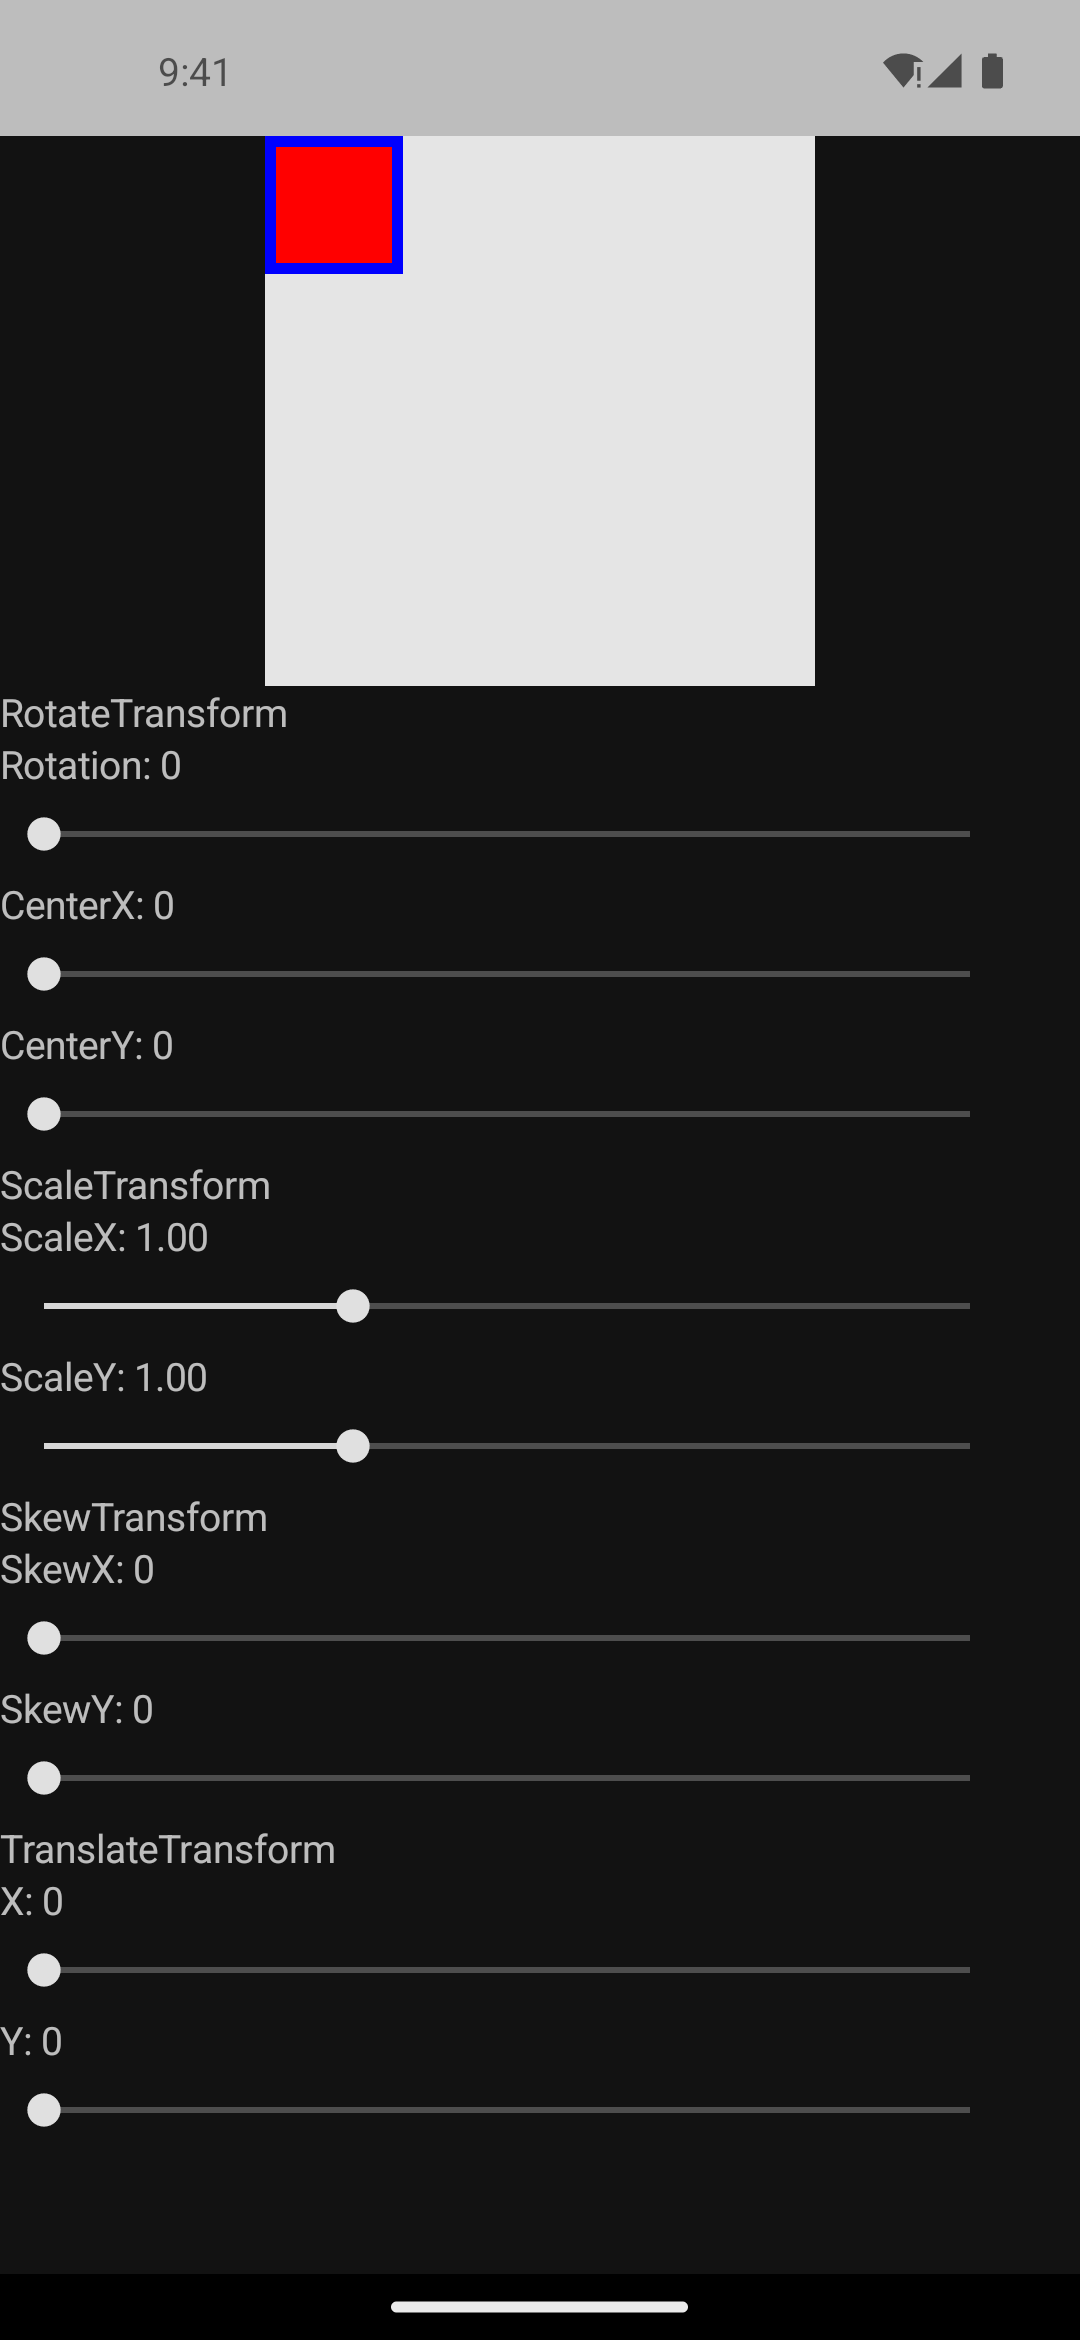
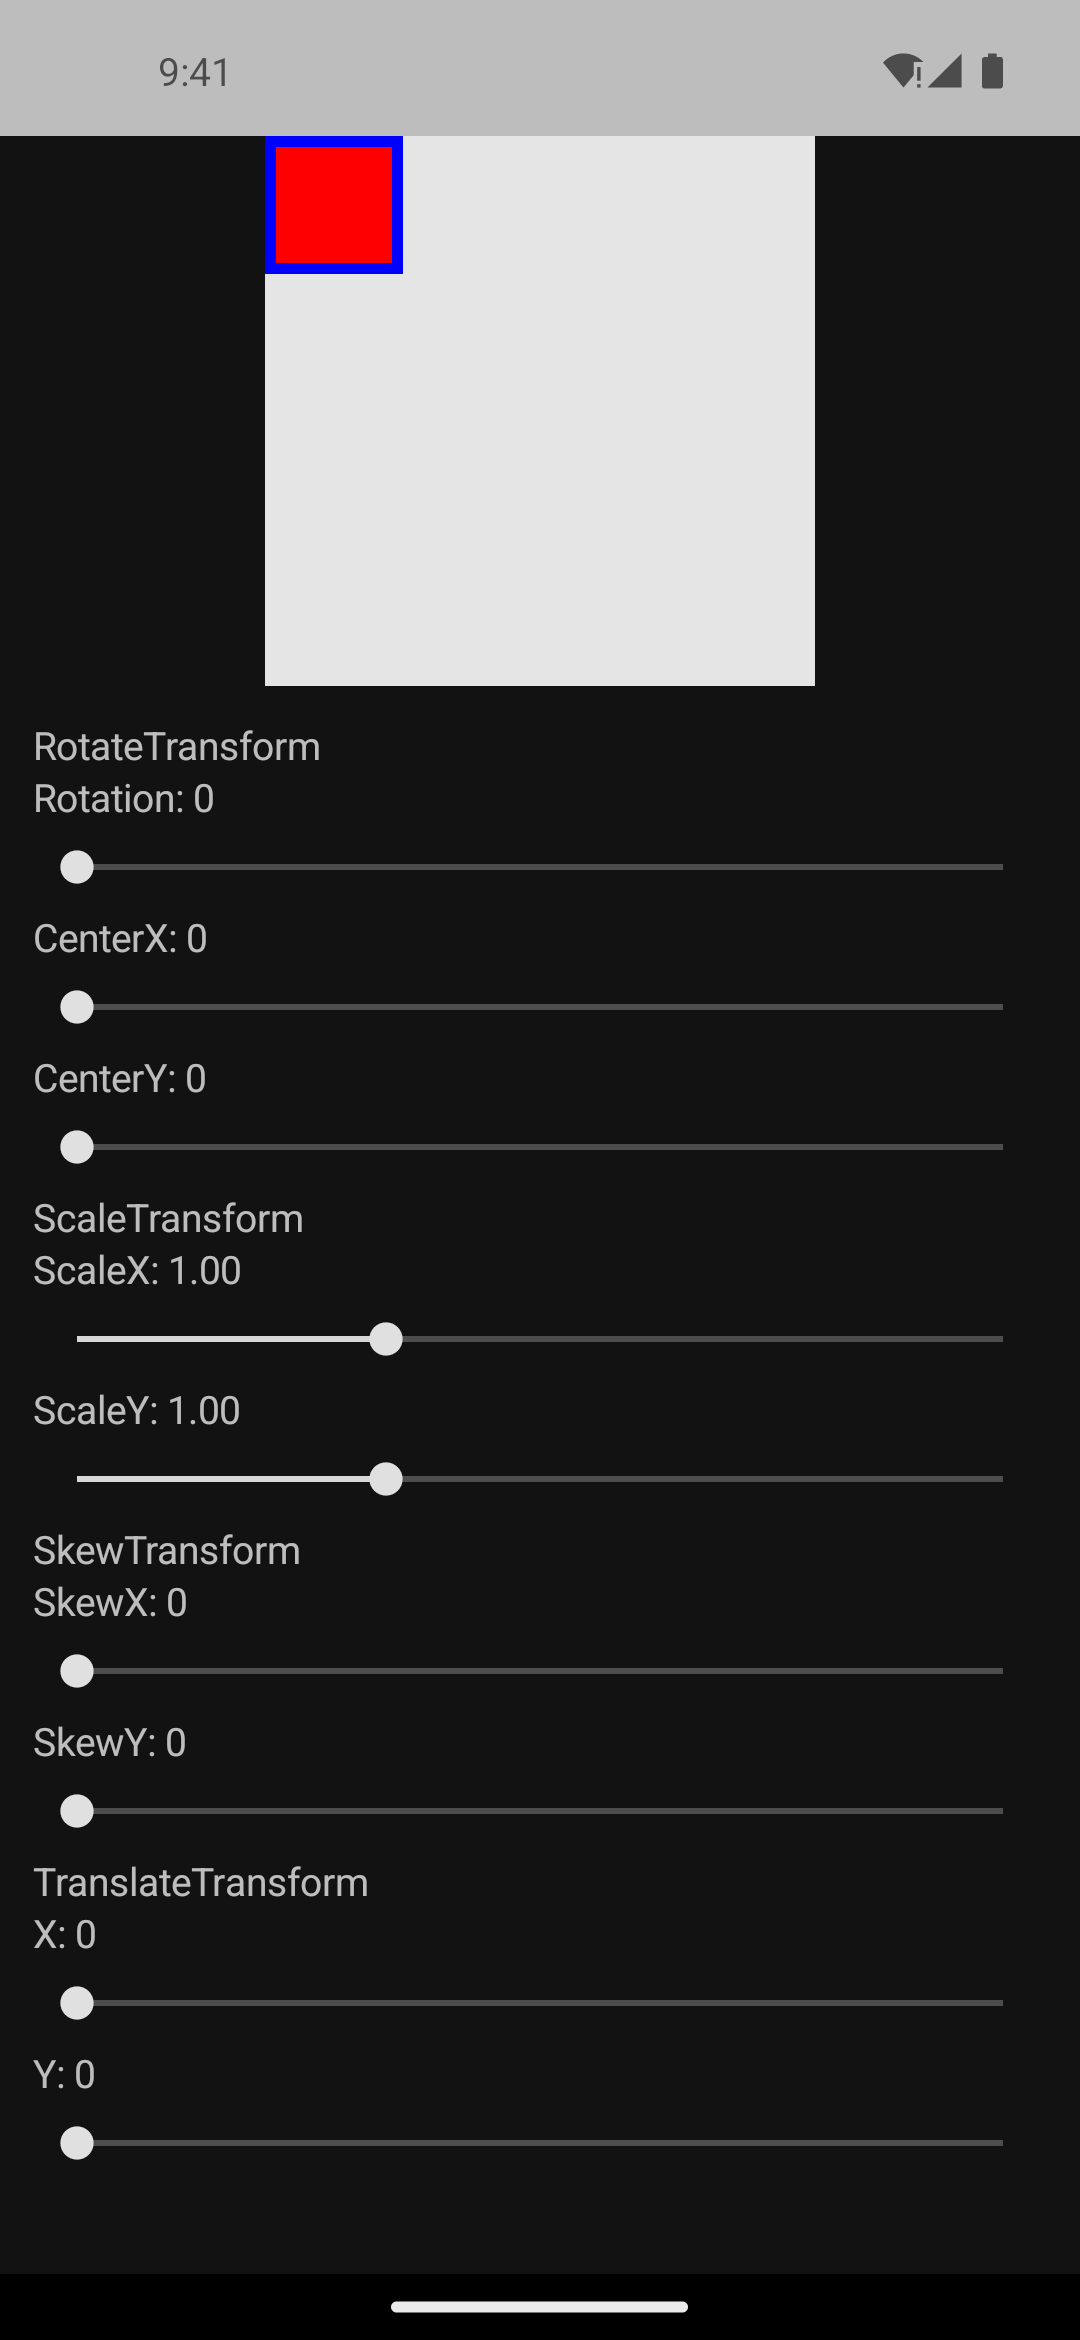
board: transform_playground/android/pixel_xaml red -> green — confirms 37731724c9
Recapture + pixel_score.py --verify confirms the FrameLayout margin fix works on real pixels:
the xaml-loaded column's ScrollView Padding now renders inset exactly like the maui and cpp
columns, both themes.

Changed region(s): [[0.0, 0.2808, 0.9167, 0.9359], [0.3056, 0.5303, 0.3972, 0.6551], [0.0, 0.5615, 0.0306, 0.5927]]

diff --git a/port/cpp/docs/comparison/README.md b/port/cpp/docs/comparison/README.md
@@ -9,9 +9,9 @@ Per-page MAUI-vs-C++ visual parity for the **172 gallery pages**, on **iOS**, **
 <tr><th>🟢</th><th>🟡</th><th>🔴</th><th>⬛</th><th>⏳</th><th>🟢</th><th>🟡</th><th>🔴</th><th>⬛</th><th>⏳</th></tr>
 <tr><td>iOS</td><td>166</td><td>5</td><td>1</td><td>0</td><td>0</td><td>167</td><td>4</td><td>1</td><td>0</td><td>0</td></tr>
 <tr><td>macOS</td><td>168</td><td>3</td><td>1</td><td>0</td><td>0</td><td>169</td><td>2</td><td>1</td><td>0</td><td>0</td></tr>
-<tr><td>Android</td><td>158</td><td>13</td><td>1</td><td>0</td><td>0</td><td>158</td><td>12</td><td>2</td><td>0</td><td>0</td></tr>
+<tr><td>Android</td><td>158</td><td>13</td><td>1</td><td>0</td><td>0</td><td>159</td><td>12</td><td>1</td><td>0</td><td>0</td></tr>
 <tr><td>Windows</td><td>171</td><td>1</td><td>0</td><td>0</td><td>0</td><td>171</td><td>1</td><td>0</td><td>0</td><td>0</td></tr>
-<tr><td><strong>Total</strong></td><td><strong>663</strong></td><td><strong>22</strong></td><td><strong>3</strong></td><td><strong>0</strong></td><td><strong>0</strong></td><td><strong>665</strong></td><td><strong>19</strong></td><td><strong>4</strong></td><td><strong>0</strong></td><td><strong>0</strong></td></tr>
+<tr><td><strong>Total</strong></td><td><strong>663</strong></td><td><strong>22</strong></td><td><strong>3</strong></td><td><strong>0</strong></td><td><strong>0</strong></td><td><strong>666</strong></td><td><strong>19</strong></td><td><strong>3</strong></td><td><strong>0</strong></td><td><strong>0</strong></td></tr>
 </table>
 
 _macOS row = **Mac Catalyst**. The AppKit columns (`appkit_cpp`, `appkit_xaml`) are captured and shown per page but are not pixel-scored — AppKit is a different UI framework (NSViews vs UIKit) and cannot pixel-match, so its requirement is element completeness plus cpp-vs-xaml agreement, not a parity score._
@@ -5543,9 +5543,9 @@ Real .NET MAUI vs the C++ port vs the compile-time-XAML gallery, captured on the
 
 | Classification | Pixel-Perfect Score — C++ (C1/C3) | Pixel-Perfect Score — C++ &amp; XAML (C2/C4) |
 | --- | --- | --- |
-| 🟢 Match | 158 | 158 |
+| 🟢 Match | 158 | 159 |
 | 🟡 Minor | 13 | 12 |
-| 🔴 Major | 1 | 2 |
+| 🔴 Major | 1 | 1 |
 | ⬛ Blank | 0 | 0 |
 | ⏳ Unreviewed | 0 | 0 |
 
@@ -8142,7 +8142,7 @@ Light: SSIM 0.9995, 0.00% pixels differ · Dark: SSIM 0.9979, 0.12% pixels diffe
 
 Light: SSIM 0.9995, 0.00% pixels differ · Dark: SSIM 0.9979, 0.12% pixels differ
 
-### 164. Transform Playground — 🟢/🔴
+### 164. Transform Playground — 🟢/🟢
 <sub>transform_playground</sub>
 
 <table><tr><th></th><th>MAUI</th><th>C++</th><th>C++ &amp; XAML</th></tr><tr><th>Light</th><td><img width="300px" src="captures/android/maui/transform_playground_light.png" /></td><td><img width="300px" src="captures/android/cpp/transform_playground_light.png" /></td><td><img width="300px" src="captures/android/xaml/transform_playground_light.png" /></td></tr><tr><th>Dark</th><td><img width="300px" src="captures/android/maui/transform_playground_dark.png" /></td><td><img width="300px" src="captures/android/cpp/transform_playground_dark.png" /></td><td><img width="300px" src="captures/android/xaml/transform_playground_dark.png" /></td></tr></table>
@@ -8153,9 +8153,9 @@ ports TransformPlaygroundGallery.xaml A code-first port of the MAUI Shapes sub-g
 
 Light: SSIM 0.9960, 0.24% pixels differ · Dark: SSIM 0.9949, 0.29% pixels differ
 
-#### 🔴 Pixel-Perfect Score — C++ &amp; XAML (C2/C4)
+#### 🟢 Pixel-Perfect Score — C++ &amp; XAML (C2/C4)
 
-Light: SSIM 0.8368, 6.73% pixels differ · Dark: SSIM 0.8195, 7.01% pixels differ
+Light: SSIM 0.9997, 0.00% pixels differ · Dark: SSIM 0.9986, 0.05% pixels differ
 
 ### 165. Transformations — 🟢/🟢
 <sub>transformations</sub>
